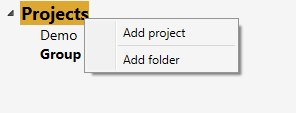
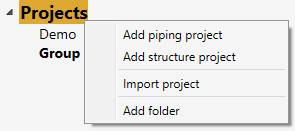
Explorer

diff --git a/Explorer/Study.md b/Explorer/Study.md
@@ -45,8 +45,9 @@ Click **Edit** (6) to start an empty design.
 
 Click [here](https://documentation.metapiping.com/Design/index.html) to have more information about the design.
 
-## 3. Bricks
+## 3. Piping bricks
 
+![Image](../Images/Study1A.jpg)
 ### 3.1 File
 
 This create a brick that let you import a file of any extension.
@@ -59,7 +60,22 @@ Click on the button to open a search file dialog.
 
 Use the connector to send the file to another brick as an input.
 
-### 3.2 PCF
+### 3.2 Study link
+
+This create a brick that virtually replicate existing studies inside a new one. This is usefull to create new nodes based on existing ones.
+
+![Image](../Images/Study10.jpg)
+
+{: .warning }
+>You can connect multiple studies. All must be drawn with the same referential XYZ.
+
+{: .warning }
+>In design, you can hide the linked studies.
+
+{: .warning }
+>In design, you cannot modify elements of linked studies.
+
+### 3.3 PCF
 
 The **plugin** PCF let you import *.pcf files.
 
@@ -69,7 +85,7 @@ Open a file and connect it to the **MetaL** connector of the **Study brick**.
 
 This will convert the PCF to the MetaL file format.
 
-### 3.3 PIPSYS
+### 3.4 PIPSYS
 
 The **plugin** PIPSYS let you import files with several extensions.
 
@@ -79,7 +95,7 @@ Open a file and connect it to the **MetaL** connector of the **Study brick**.
 
 This will convert the PIPSYS to the MetaL file format.
 
-### 3.4 PIPESTRESS
+### 3.5 PIPESTRESS
 
 The **plugin** PIPESTRESS let you import *.fre (and *.thf files).
 
@@ -105,15 +121,17 @@ The **plugin** PIPESTRESS let you also configure all bricks by just importing a 
 
 ![Image](../Images/Study8.jpg)
 
-### 3.5 Python
+### 3.6 Python
 
 You can create your own **brick** thanks to the Python scripts.
 
 ![Image](../Images/PythonStudy2.jpg)
 
+*Example of a brick connected to the MetaL and another one connected to the solution.*
+
 Click [here](https://documentation.metapiping.com/Python/index.html) to have more information about the script creation.
 
-### 3.6 Comment
+### 3.7 Comment
 
 This create a brick with text and color capabilities.
 
@@ -121,3 +139,53 @@ Usefull to show the state of progress of the study to other users. A conventionn
 
 ![Image](../Images/Study9.jpg)
 
+## 4. Structure bricks
+
+![Image](../Images/Study1B.jpg)
+### 4.1 File
+
+This create a brick that let you import a file of any extension.
+
+![Image](../Images/Study3.jpg)
+
+This is usefull only for Python script that need a file as input (Ex : Excel file or Text file).
+
+Click on the button to open a search file dialog.
+
+Use the connector to send the file to another brick as an input.
+
+### 4.2 Study link
+
+This create a brick that virtually replicate existing studies inside a new one. This is usefull to create new nodes based on existing ones.
+
+![Image](../Images/Study10.jpg)
+
+{: .warning }
+>You can connect multiple studies. All must be drawn with the same referential XYZ.
+
+{: .warning }
+>In design, you can hide the linked studies.
+
+{: .warning }
+>In design, you cannot modify elements of linked studies.
+
+### 4.3 BEAMSTRESS
+
+This create a brick that let you import *.bst files that are converted to MetaL file.
+
+![Image](../Images/Study11.jpg)
+
+{: .warning }
+>ATTENTION, only recent bst files are allowed. If the file is too old, we recommand to open the file in a recent BEAMSTRESS and resave the model.
+
+### 4.4 Python
+
+You can create your own **brick** thanks to the Python scripts.
+
+Click [here](https://documentation.metapiping.com/Python/index.html) to have more information about the script creation.
+
+### 4.5 Comment
+
+This create a brick with text and color capabilities.
+
+Usefull to show the state of progress of the study to other users. A conventionnal color code can be established.

diff --git a/Explorer/Project.md b/Explorer/Project.md
@@ -7,9 +7,17 @@ parent: Explorer
 
 # Project
 
-A MetaPiping project is a container of **studies**.
+A project is a container of **studies**.
+
+If you create a new **piping project**, the first study will be a piping study :
 
 ![Image](../Images/Project1.jpg)
+
+If you create a new **structure project**, the first study will be a structure study :
+
+![Image](../Images/Project2.jpg)
+
+---
 
 The **project** screen consists of 4 zones :
 
@@ -17,6 +25,7 @@ The **project** screen consists of 4 zones :
 2. The **Container** of studies
 3. The current study **Diagram** - see [study](https://documentation.metapiping.com/Explorer/Study.html) to have more information
 4. The **Bricks** to manage the current study - see [study](https://documentation.metapiping.com/Explorer/Study.html) to have more information
+
 
 
 ## 1. Tools
@@ -28,7 +37,10 @@ Select a study in the **container** (2).
 This study become the **current study** shown in the main panel (3).
 ### 1.2 Add
 
-Click on **Add study** to create an empty study that will be added to the **container** (2).
+Click on **Add new piping study** to create an empty piping study that will be added to the **container** (2).
+
+Click on **Add new structure study** to create an empty structure study that will be added to the **container** (2).
+
 
 This new study become the **current study** shown in the main panel (3).
 

diff --git a/Explorer/index.md b/Explorer/index.md
@@ -19,22 +19,30 @@ Right click on **Projects** lets you :
 
 ![Image](../Images/Explorer2.jpg)
 
-- Add a new project
+- Add a new piping project (if MetaPiping active on your licence)
+- Add a new structure project (if MetaStructure active on your licence)
+- Import a project (file with extension *.prockage)
 - Add a new folder
 
 Select a **folder** (Ex : Group A). Right click on it lets you :
 
 ![Image](../Images/Explorer3.jpg)
 
-- Add a new project
+- Add a new piping project (if MetaPiping active on your licence)
+- Add a new structure project (if MetaStructure active on your licence)
+- Import a project (file with extension *.prockage)
 - Add a new sub-folder
-- Delete the current folder
+- Delete the current folder with all projects
 
 Select a **project** (Ex : Demo). Right click on it lets you :
 
 ![Image](../Images/Explorer4.jpg)
 
 - Delete the current project
+- Export the project (file with extension *.prockage)
+
+{: .warning }
+>The EXPORT project command (from source computer) will copy all studies but also all external files, the used python scripts... and will paste it (or install scripts if not exist on target computer) during IMPORT command.
 
 ## 2. Project preview
 
